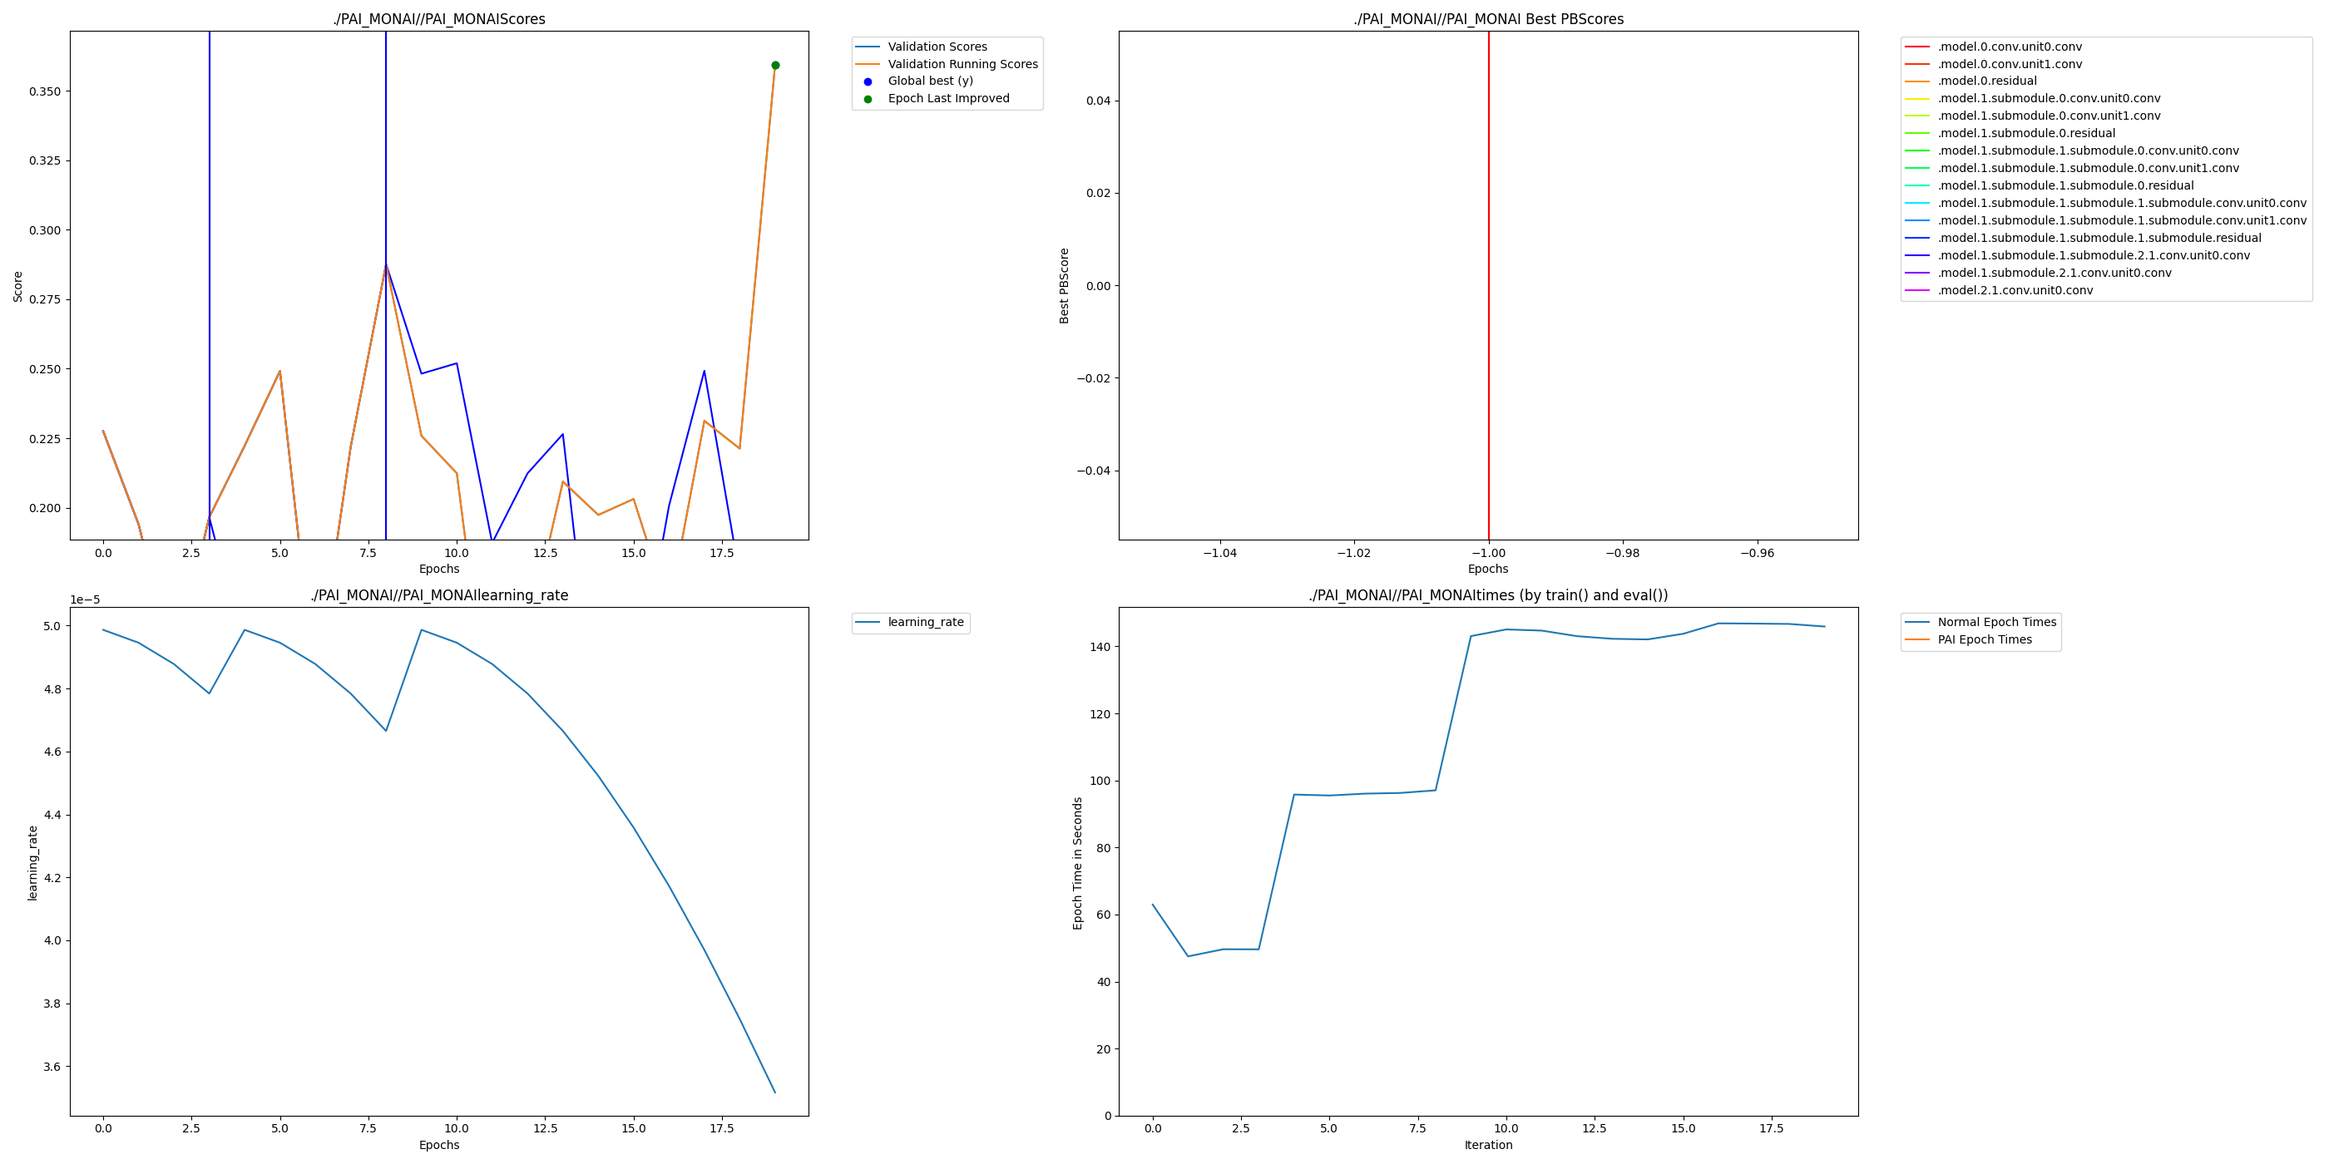
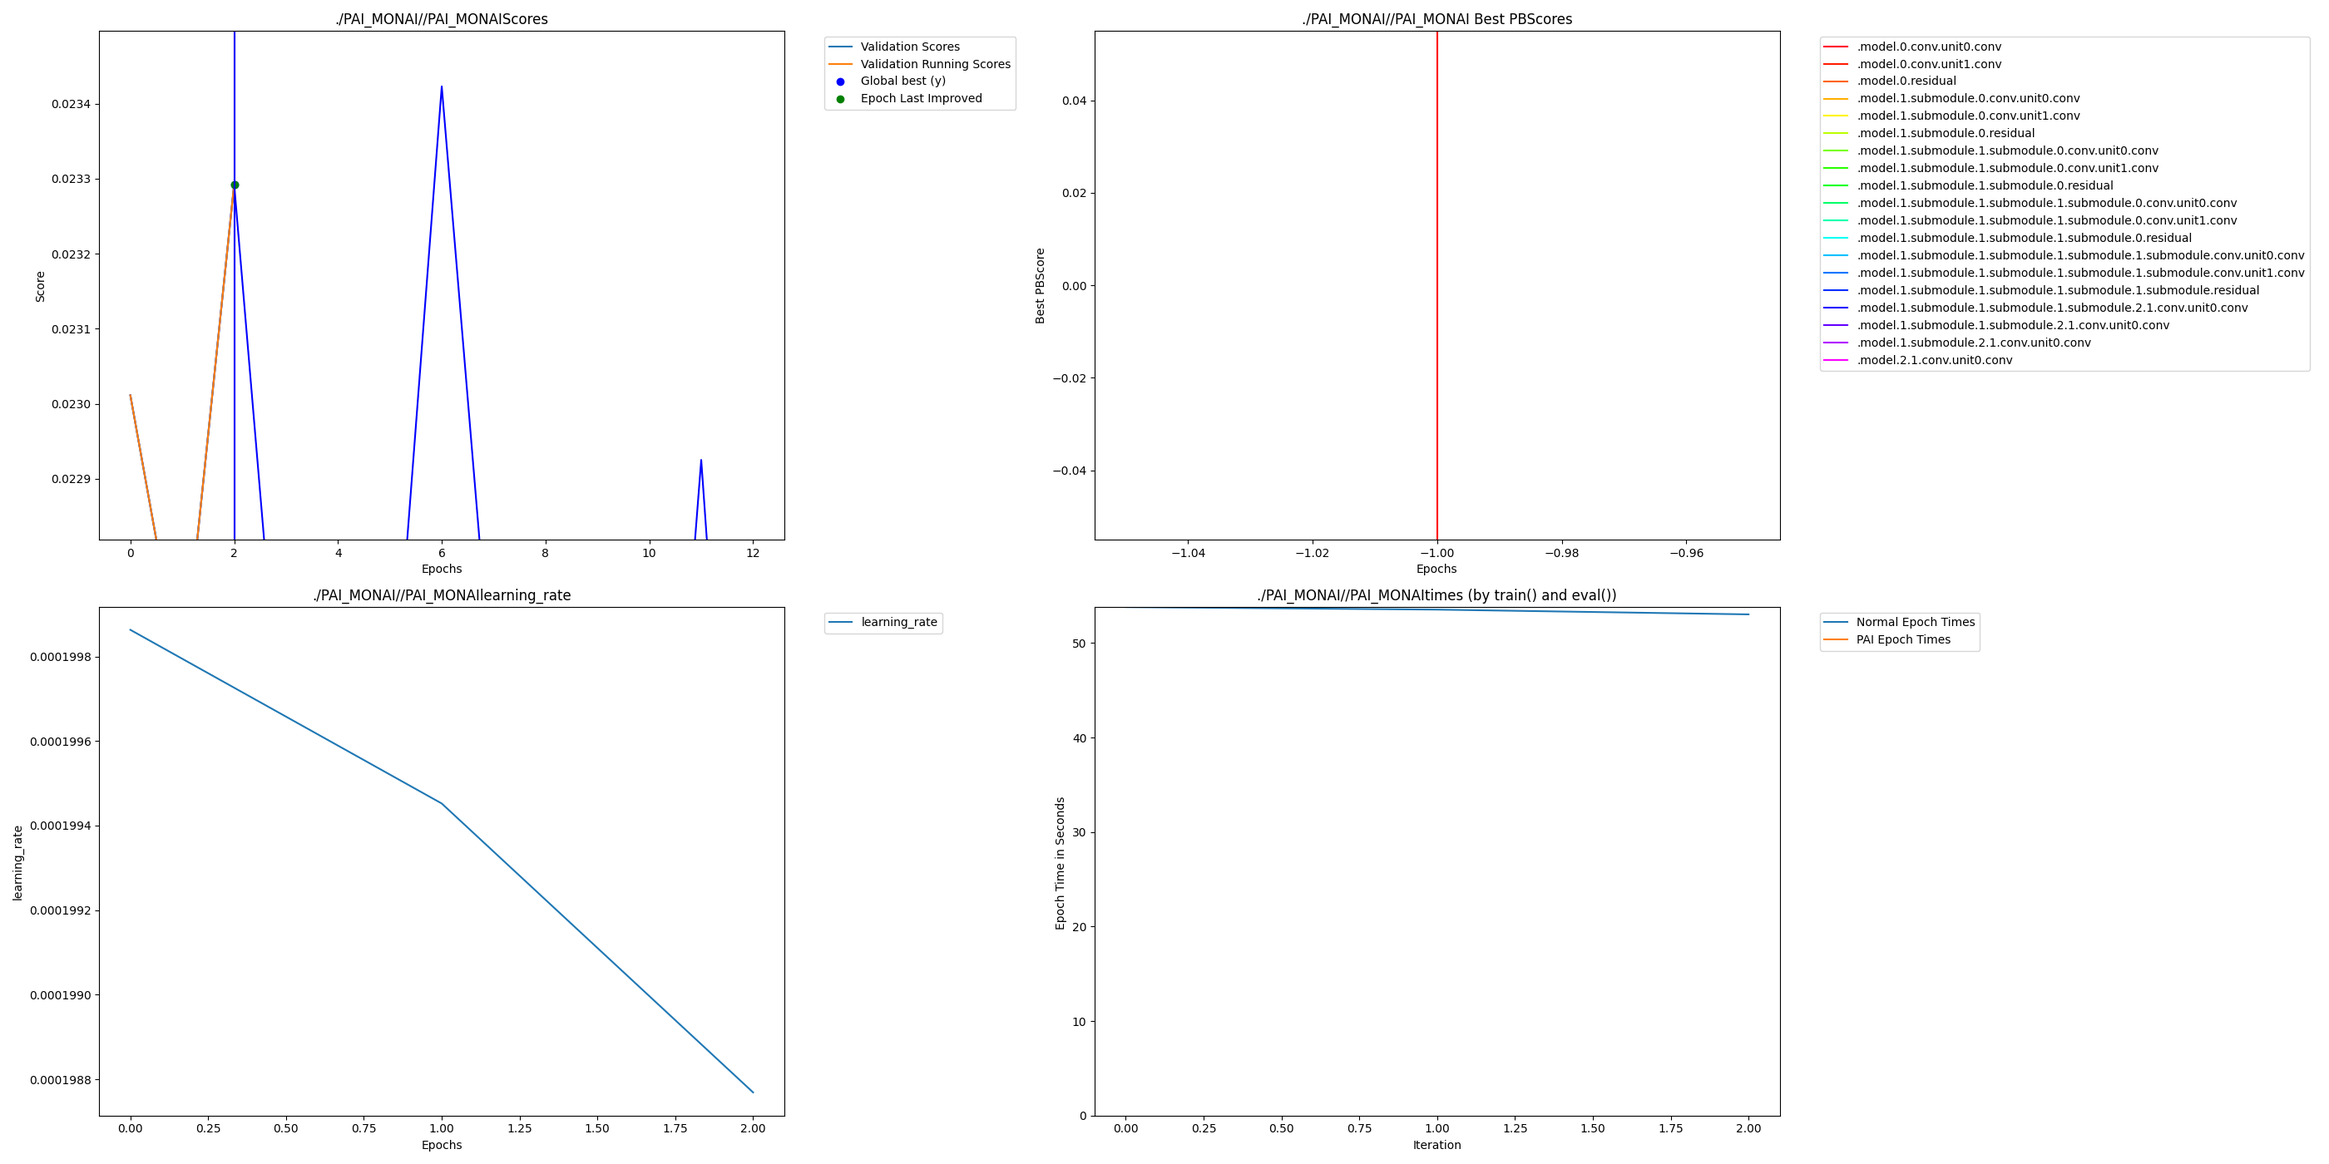
minor changes and fixed github actions for windows with added files

diff --git a/perforatedai/utils_perforatedai.py b/perforatedai/utils_perforatedai.py
@@ -22,7 +22,7 @@ from perforatedai import network_perforatedai as NPA
 
 try:
     from perforatedbp import utils_pbp as UPB
-
+    from perforatedbp import modules_pbp as MPB
 except ModuleNotFoundError as e:
     # Only pass if perforatedbp package itself is missing
     if e.name == 'perforatedbp':
@@ -30,6 +30,8 @@ except ModuleNotFoundError as e:
     else:
         # perforatedbp exists but is missing a dependency
         raise
+
+
 import copy
 
 from safetensors.torch import load_file
@@ -631,6 +633,7 @@ def convert_network(net, layer_name=""):
     """
     if GPA.pc.get_perforated_backpropagation():
         UPB.initialize_pb()
+        MPB.set_main_parameters(net)
     if type(net) in GPA.pc.get_modules_to_replace():
         net = replace_predefined_modules(net)
     if (type(net) in GPA.pc.get_modules_to_convert()) or (
@@ -692,9 +695,7 @@ def convert_network(net, layer_name=""):
             print(
                 "Any modules in the second list should be added to module_names_to_track"
             )
-            print(
-                "------------------------------------------------------------------\nType 'c' + enter to continue the run to confirm you do not want them to be refined"
-            )
+
             print(
                 "Set GPA.pc.set_unwrapped_modules_confirmed(True) to skip this next time"
             )
@@ -703,8 +704,12 @@ def convert_network(net, layer_name=""):
             )
             # If did miss some then set trace to debug
             if len(missed_ones) != 0:
+                print(
+                "------------------------------------------------------------------\nType 'c' + enter to continue the run to confirm you do not want them to be refined"
+                )
+
                 pdb.set_trace()
-            print("confirmed")
+                print("confirmed")
     net.register_buffer("tracker_string", torch.tensor([], dtype=torch.uint8))
     return net
 
@@ -1177,8 +1182,6 @@ def load_net_from_dict(net, state_dict):
             "initialize_pai on the correct model, and the same model is the one\n"
             "being passed into add_validation_score"
         )
-        import pdb
-
         pdb.set_trace()
         sys.exit(-1)
     if(GPA.pc.get_verbose()):
@@ -1260,7 +1263,6 @@ def load_net_from_dict(net, state_dict):
                 print("\n7 - You are running multiple experiments at once with the same save_name."
                       " When running concurrent trials be sure to add save_name=<unique_name> to initialize_pai."
                 )
-                import pdb
 
                 pdb.set_trace()
 
@@ -1301,6 +1303,8 @@ def load_net_from_dict(net, state_dict):
             manual_load_state_dict(net, state_dict)
         else:
             print(f"Error loading state_dict: {e}")
+            print("\ntype \'c\' to print full state dicts\n")
+            pdb.set_trace()
             print("net state dict is:")
             print(net.state_dict())
             print("loaded state dict is:")
@@ -1921,7 +1925,6 @@ def convert_to_type(value, type_name):
         # Unknown type - error and debug
         print(f"ERROR: Unknown type '{type_name}' for value: {value}")
         print(f"Type of value is: {type(value).__name__}")
-        import pdb
         pdb.set_trace()
         return value
 

diff --git a/Examples/imagenet/train_perforated_resnet.py b/Examples/imagenet/train_perforated_resnet.py
@@ -7,6 +7,11 @@ CUDA_VISIBLE_DEVICES=0 python -m pdb train_fast_perforatedai_from_config.py --mo
 """
 CUDA_VISIBLE_DEVICES=1 python -m pdb train_fast_perforatedai_from_config.py --model resnet50 --batch-size 32 --lr 0.0125 --val-resize-size 256 --val-crop-size 224 --train-crop-size 224 --full-dataset --data-path /home/rbrenner/Datasets/imagenet --convert-count 0 --dendrite-mode 1 --improvement-threshold 1 --candidate-weight-init-mult 0.1 --pai-forward-function relu --perforated-load-path resnet50_c0_wd0.0001_dmode1_20260128_174922
 
+
+# This was the one that had the sudden large jump
+CUDA_VISIBLE_DEVICES=0 python train_perforated.py --model resnet18 --convert-count 0 --wd 0.0001 --dendrite-mode 1 --perforated-load-path resnet18_c0_wd0.0001_dmode1_20260208_091654
+
+
 """
 
 """
@@ -36,7 +41,8 @@ Test:  Acc@1 61.660 Acc@5 85.200
 current command, maybe working?:
 CUDA_VISIBLE_DEVICES=0 python train_fast_perforatedai_from_config.py     --model resnet18     --batch-size 32     --lr 0.0125     --val-resize-size 256     --val-crop-size 224     --train-crop-size 224     --full-dataset     --data-path /home/rbrenner/Datasets/imagenet     --convert-count 0     --dendrite-mode 1     --improvement-threshold 0     --candidate-weight-init-mult 0.1     --pai-forward-function relu --perforated-load-path resnet18_c0_wd0.0001_dmode1_20260112_205006
 
-
+Think this is the current command actually:
+CUDA_VISIBLE_DEVICES=1 python -m pdb train_perforated_resnet.py --model resnet18 --batch-size 32 --lr 0.0125 --val-resize-size 256 --val-crop-size 224 --train-crop-size 224 --full-dataset --data-path /home/rbrenner/Datasets/imagenet --convert-count 0 --dendrite-mode 1 --improvement-threshold 1 --candidate-weight-init-mult 0.1 --pai-forward-function relu
 
 """
 
@@ -619,7 +625,7 @@ def main(args):
 
     for i in range(skip_layers):
         GPA.pc.append_module_ids_to_track(['.layer'+str(i+1)])
-    GPA.pc.append_module_ids_to_track(['.conv1', '.b1', '.fc'])
+    GPA.pc.append_module_ids_to_track(['.conv1', '.bn1', 'conv1', '.fc'])
     # Wrap model with PerforatedAI
     model = custom_resnet.ResNetPAI(model)
     # Build save name
@@ -633,7 +639,7 @@ def main(args):
     # Load from checkpoint if path provided, otherwise initialize new
     if args.perforated_load_path != '':
         model = UPA.initialize_pai(model, save_name=args.perforated_load_path)
-        model = UPA.load_system(model, args.perforated_load_path, 'latest', True)
+        model = UPA.load_system(model, args.perforated_load_path, 'switch_2', True)
     else:
         model = UPA.initialize_pai(model, save_name=save_name_with_timestamp)
 
@@ -655,7 +661,7 @@ def main(args):
     
     # Create optimizer and scheduler
     optimizer, lr_scheduler = create_optimizer_and_scheduler(model, args, custom_keys_weight_decay)
-
+    args.lr = args.lr * 10  # Increase LR after restructuring to help adapt to new architecture
     scaler = torch.cuda.amp.GradScaler() if args.amp else None
 
     model_without_ddp = model

diff --git a/Examples/imagenet_pretrained/train_perforatedai_hf.py b/Examples/imagenet_pretrained/train_perforatedai_hf.py
@@ -477,6 +477,7 @@ def main(args):
             model = BPA.blockwise_network(model)
             model  = CPA.refresh_net(model)
             
+            
 
         print("model has total params: ", sum([p.numel() for p in model.parameters()]))
 
@@ -494,7 +495,7 @@ def main(args):
                 print(f"Kept custom FC as trainable feature extractor ({fc_out_features}D), added adapter layer for {num_classes} classes")
             else:
                 print("Warning: --keep-fc-as-features specified but model has no 'fc' layer")
-        else:
+        elif(args.hf_mode != 1):
             # Replace final layer with correct number of classes
             if hasattr(model, 'fc'):
                 # ResNet, RegNet, etc.
@@ -595,10 +596,17 @@ def main(args):
             raise ValueError("--hf-repo-id is required when using --hf-mode 1")
         print(f"\nUploading model to HuggingFace: {args.hf_repo_id}")
         from perforatedai import modules_perforatedai as MPA
-        #model.fc = MPA.TrackedNeuronModule(model.fc, "model.fc")
-        #model.conv1 = MPA.TrackedNeuronModule(model.b1.model[0], "model.conv1")
-        #model.bn1 = MPA.TrackedNeuronModule(model.b1.model[1], "model.bn1")
-        #del model.b1
+
+        correctingb1 = True
+        if correctingb1:
+            from collections import OrderedDict
+            model.conv1 = MPA.TrackedNeuronModule(model.b1.model[0], "model.conv1")
+            model.bn1 = MPA.TrackedNeuronModule(model.b1.model[1], "model.bn1")
+            del model.b1
+            priority = ['conv1', 'bn1']
+            reordered = priority + [k for k in model._modules if k not in priority]
+            model._modules = OrderedDict((k, model._modules[k]) for k in reordered)
+
         UPA.upload_to_huggingface(
             model, 
             args.hf_repo_id,
@@ -934,7 +942,7 @@ def get_args_parser(add_help=True):
     )
     parser.add_argument("--weights", default=None, type=str, help="the weights enum name to load")
     parser.add_argument("--perforatedai", action="store_true", help="Use PerforatedAI model")
-    parser.add_argument("--keep-fc-as-features", default=1, type=int, help="Keep FC layer as feature extractor and add adapter layer on top (default: True)")
+    parser.add_argument("--keep-fc-as-features", default=0, type=int, help="Keep FC layer as feature extractor and add adapter layer on top (default: True)")
     parser.add_argument("--backend", default="PIL", type=str.lower, help="PIL or tensor - case insensitive")
     parser.add_argument("--use-v2", action="store_true", help="Use V2 transforms")
     parser.add_argument("--hf-mode", default=0, type=int, choices=[0, 1, 2], help="HuggingFace mode: 0=normal (default), 1=upload after loading, 2=load from HuggingFace")

diff --git a/perforatedai/tracker_perforatedai.py b/perforatedai/tracker_perforatedai.py
@@ -1897,14 +1897,23 @@ class PAINeuronModuleTracker:
             )
             pdb.set_trace()
         if not GPA.pc.get_silent():
-
-            print(
-                f'Checking PAI switch with mode {self.member_vars["mode"]}, '
-                f'switch mode {switch_phrase}, epoch {self.member_vars["num_epochs_run"]}, '
-                f'last improved epoch {self.member_vars["epoch_last_improved"]}, '
-                f'total epochs {self.member_vars["total_epochs_run"]}, '
-                f'n: {switch_number}, num_cycles: {self.member_vars["num_cycles"]}'
-            )
+            if(GPA.pc.get_perforated_backpropagation()):
+                print(
+                    f'Checking PAI switch with mode {self.member_vars["mode"]}, '
+                    f'switch mode {switch_phrase}, epoch {self.member_vars["num_epochs_run"]}, '
+                    f'last improved epoch {self.member_vars["epoch_last_improved"]}, '
+                    f'total epochs {self.member_vars["total_epochs_run"]}, '
+                    f'n: {switch_number}, p: {GPA.pc.get_n_epochs_to_switch()}, '
+                    f'num_cycles: {self.member_vars["num_cycles"]}'
+                )
+            else:
+                print(
+                    f'Checking PAI switch with mode {self.member_vars["mode"]}, '
+                    f'switch mode {switch_phrase}, epoch {self.member_vars["num_epochs_run"]}, '
+                    f'last improved epoch {self.member_vars["epoch_last_improved"]}, '
+                    f'total epochs {self.member_vars["total_epochs_run"]}, '
+                    f'n: {switch_number}, num_cycles: {self.member_vars["num_cycles"]}'
+                )
         if GPA.pc.get_perforated_backpropagation():
             # this will fill in epoch last improved
             TPB.best_pai_score_improved_this_epoch(self)  ## CLOSED ONLY

diff --git a/Examples/challengeExamples/nanoGPT/train_perforatedai.py b/Examples/challengeExamples/nanoGPT/train_perforatedai.py
@@ -91,7 +91,7 @@ dropout = 0.0  # for pretraining 0 is good, for finetuning try 0.1+
 n_layer = 12
 n_head = 12
 n_embd = 768
-dropout = 0.35  # for pretraining 0 is good, for finetuning try 0.1+
+dropout = 0.5  # for pretraining 0 is good, for finetuning try 0.1+
 
 
 """
@@ -128,6 +128,13 @@ dtype = (
     else "float16"
 )  # 'float32', 'bfloat16', or 'float16', the latter will auto implement a GradScaler
 compile = True  # use PyTorch 2.0 to compile the model to be faster
+# -----------------------------------------------------------------------------
+# Overwrite settings to reduce overfitting (pretrained-safe)
+learning_rate = 2e-4
+lr_decay_iters = 200000
+weight_decay = 2e-1
+block_size = 512
+eval_interval = 4000
 # -----------------------------------------------------------------------------
 config_keys = [
     k
@@ -298,10 +305,6 @@ GPA.pc.set_cap_at_n(True)  # this was not set before
 # GPA.verbose = True
 # GPA.extraVerbose = False
 model = UPA.initialize_pai(model, maximizing_score=False, save_name="PAI")
-
-import pdb
-
-pdb.set_trace()
 
 model.to(device)
 model.lm_head.set_this_output_dimensions([-1, -1, 0])

diff --git a/Examples/imagenet/resnet_double.py b/Examples/imagenet/resnet_double.py
@@ -1175,8 +1175,9 @@ class ResNetPAI(nn.Module):
 
         # For the component to be changed, define a PAISequential with the old
         # modules included
-        self.b1 = GPA.PAISequential([other_resnet.conv1, other_resnet.bn1])
-
+        #self.b1 = GPA.PAISequential([other_resnet.conv1, other_resnet.bn1])
+        self.conv1 = other_resnet.conv1
+        self.bn1 = other_resnet.bn1
         self.relu = other_resnet.relu
         self.maxpool = other_resnet.maxpool
 
@@ -1240,10 +1241,9 @@ class ResNetPAI(nn.Module):
         torch.Tensor
             Output tensor from the network.
         """
-        # Modified b1 rather than conv1 and bn1
-        x = self.b1(x)
-        # Rest of forward remains the same
-        x = F.relu(x)
+        x = self.conv1(x)
+        x = self.bn1(x)
+        x = self.relu(x)
         x = self.maxpool(x)
 
         x = self.layer1(x)

diff --git a/perforatedai/modules_perforatedai.py b/perforatedai/modules_perforatedai.py
@@ -18,10 +18,13 @@ from perforatedai import utils_perforatedai as UPA
 
 try:
     from perforatedbp import modules_pbp as MPB
-except ModuleNotFoundError:
-    pass  # Module not found, pass silently
-except ImportError as e:
-    print(f"Import error occurred: {e}")
+except ModuleNotFoundError as e:
+    # Only pass if perforatedbp package itself is missing
+    if e.name == 'perforatedbp':
+        pass
+    else:
+        # perforatedbp exists but is missing a dependency
+        raise
 
 
 # Values for Dendrite training, minimally used in open source version

diff --git a/Examples/hackathonProjects/perforated-monai-3d-unet/src/training/train_dendritic_old.py b/Examples/hackathonProjects/perforated-monai-3d-unet/src/training/train_dendritic_old.py
@@ -56,7 +56,7 @@ def main():
     # ============================================================
     # 🔴 PAI CONFIG — MUST BE SET *BEFORE* INITIALIZE
     # ============================================================
-    GPA.pc.set_switch_mode("DOING_HISTORY")
+    GPA.pc.set_switch_mode(GPA.pc.DOING_HISTORY)
     GPA.pc.set_testing_dendrite_capacity(False)
     GPA.pc.set_max_dendrites(6)
     GPA.pc.set_perforated_backpropagation(False)

diff --git a/Examples/challengeExamples/nanoGPT/train_perforatedai_prefc.py b/Examples/challengeExamples/nanoGPT/train_perforatedai_prefc.py
@@ -91,7 +91,7 @@ dropout = 0.0  # for pretraining 0 is good, for finetuning try 0.1+
 n_layer = 12
 n_head = 12
 n_embd = 768
-dropout = 0.35  # for pretraining 0 is good, for finetuning try 0.1+
+dropout = 0.5  # for pretraining 0 is good, for finetuning try 0.1+
 
 
 """

diff --git a/Examples/libraryExamples/huggingface/mnist/README.md b/Examples/libraryExamples/huggingface/mnist/README.md
@@ -5,8 +5,8 @@
 To work with hugginface some internal mechanisms of the trainer must be changed to do Perforated AI steps where they need to be done.  We have created a repo that is a fork which has everything in the correct place.  Get it and install requirements by running:
 
     pip install -r requirements.txt
-    git clone https://github.com/PerforatedAI/PerforatedAI-Transformers.git
-    cd PerforatedAI-Transformers
+    git clone https://github.com/PerforatedAI/transformers-perforated.git
+    cd transformers-perforated
     pip install -e .
     cd ..
     pip install perforatedai
@@ -14,7 +14,7 @@ To work with hugginface some internal mechanisms of the trainer must be changed 
     
 ## Other Examples
 The rest of this readme covers the mnist example in this folder.  But additional examples are as follows:
-    [BERT Language Modeling](https://github.com/PerforatedAI/PerforatedAI-Transformers/tree/main/examples/pytorch/language-modeling)
+    [BERT Language Modeling](https://github.com/PerforatedAI/transformers-perforated/tree/main/examples/pytorch/language-modeling)
     
 ## Code Changes
 

diff --git a/Examples/libraryExamples/huggingface/BERT/README.md b/Examples/libraryExamples/huggingface/BERT/README.md
@@ -16,7 +16,7 @@ Supported models include:
 
 ### Baseline models
 
-For training baseline models, make sure you are using the off-the-shelf `transformers` library instead of the PerforatedAI-Transformers version:
+For training baseline models, make sure you are using the off-the-shelf `transformers` library instead of the transformers-perforated version:
 
     pip install transformers
 
@@ -45,10 +45,10 @@ Usage example for SNLI:
 
 ### PerforatedAI models
 
-To train a PerforatedAI model, first install the PerforatedAI-Transformers version of the `transformers` library:
+To train a PerforatedAI model, first install the transformers-perforated version of the `transformers` library:
 
-    git clone https://github.com/PerforatedAI/PerforatedAI-Transformers.git
-    cd PerforatedAI-Transformers
+    git clone https://github.com/PerforatedAI/transformers-perforated.git
+    cd transformers-perforated
     pip install -e .
     pip install perforatedai
 

diff --git a/API/debugging.md b/API/debugging.md
@@ -339,6 +339,9 @@ This error can be caused by a few different reasons:
 
     We are aware that with RMSprop centered = True can cause correlations to be calculated as nan.  For now, just set the setting to not be centered or pick an alternative optimizer.
 
+### No inf checks were recorded prior to update
+
+This error can sometimes come up when amp is being used.  We currently do not have a working around for this.
 
 ## Extra Debugging
 
